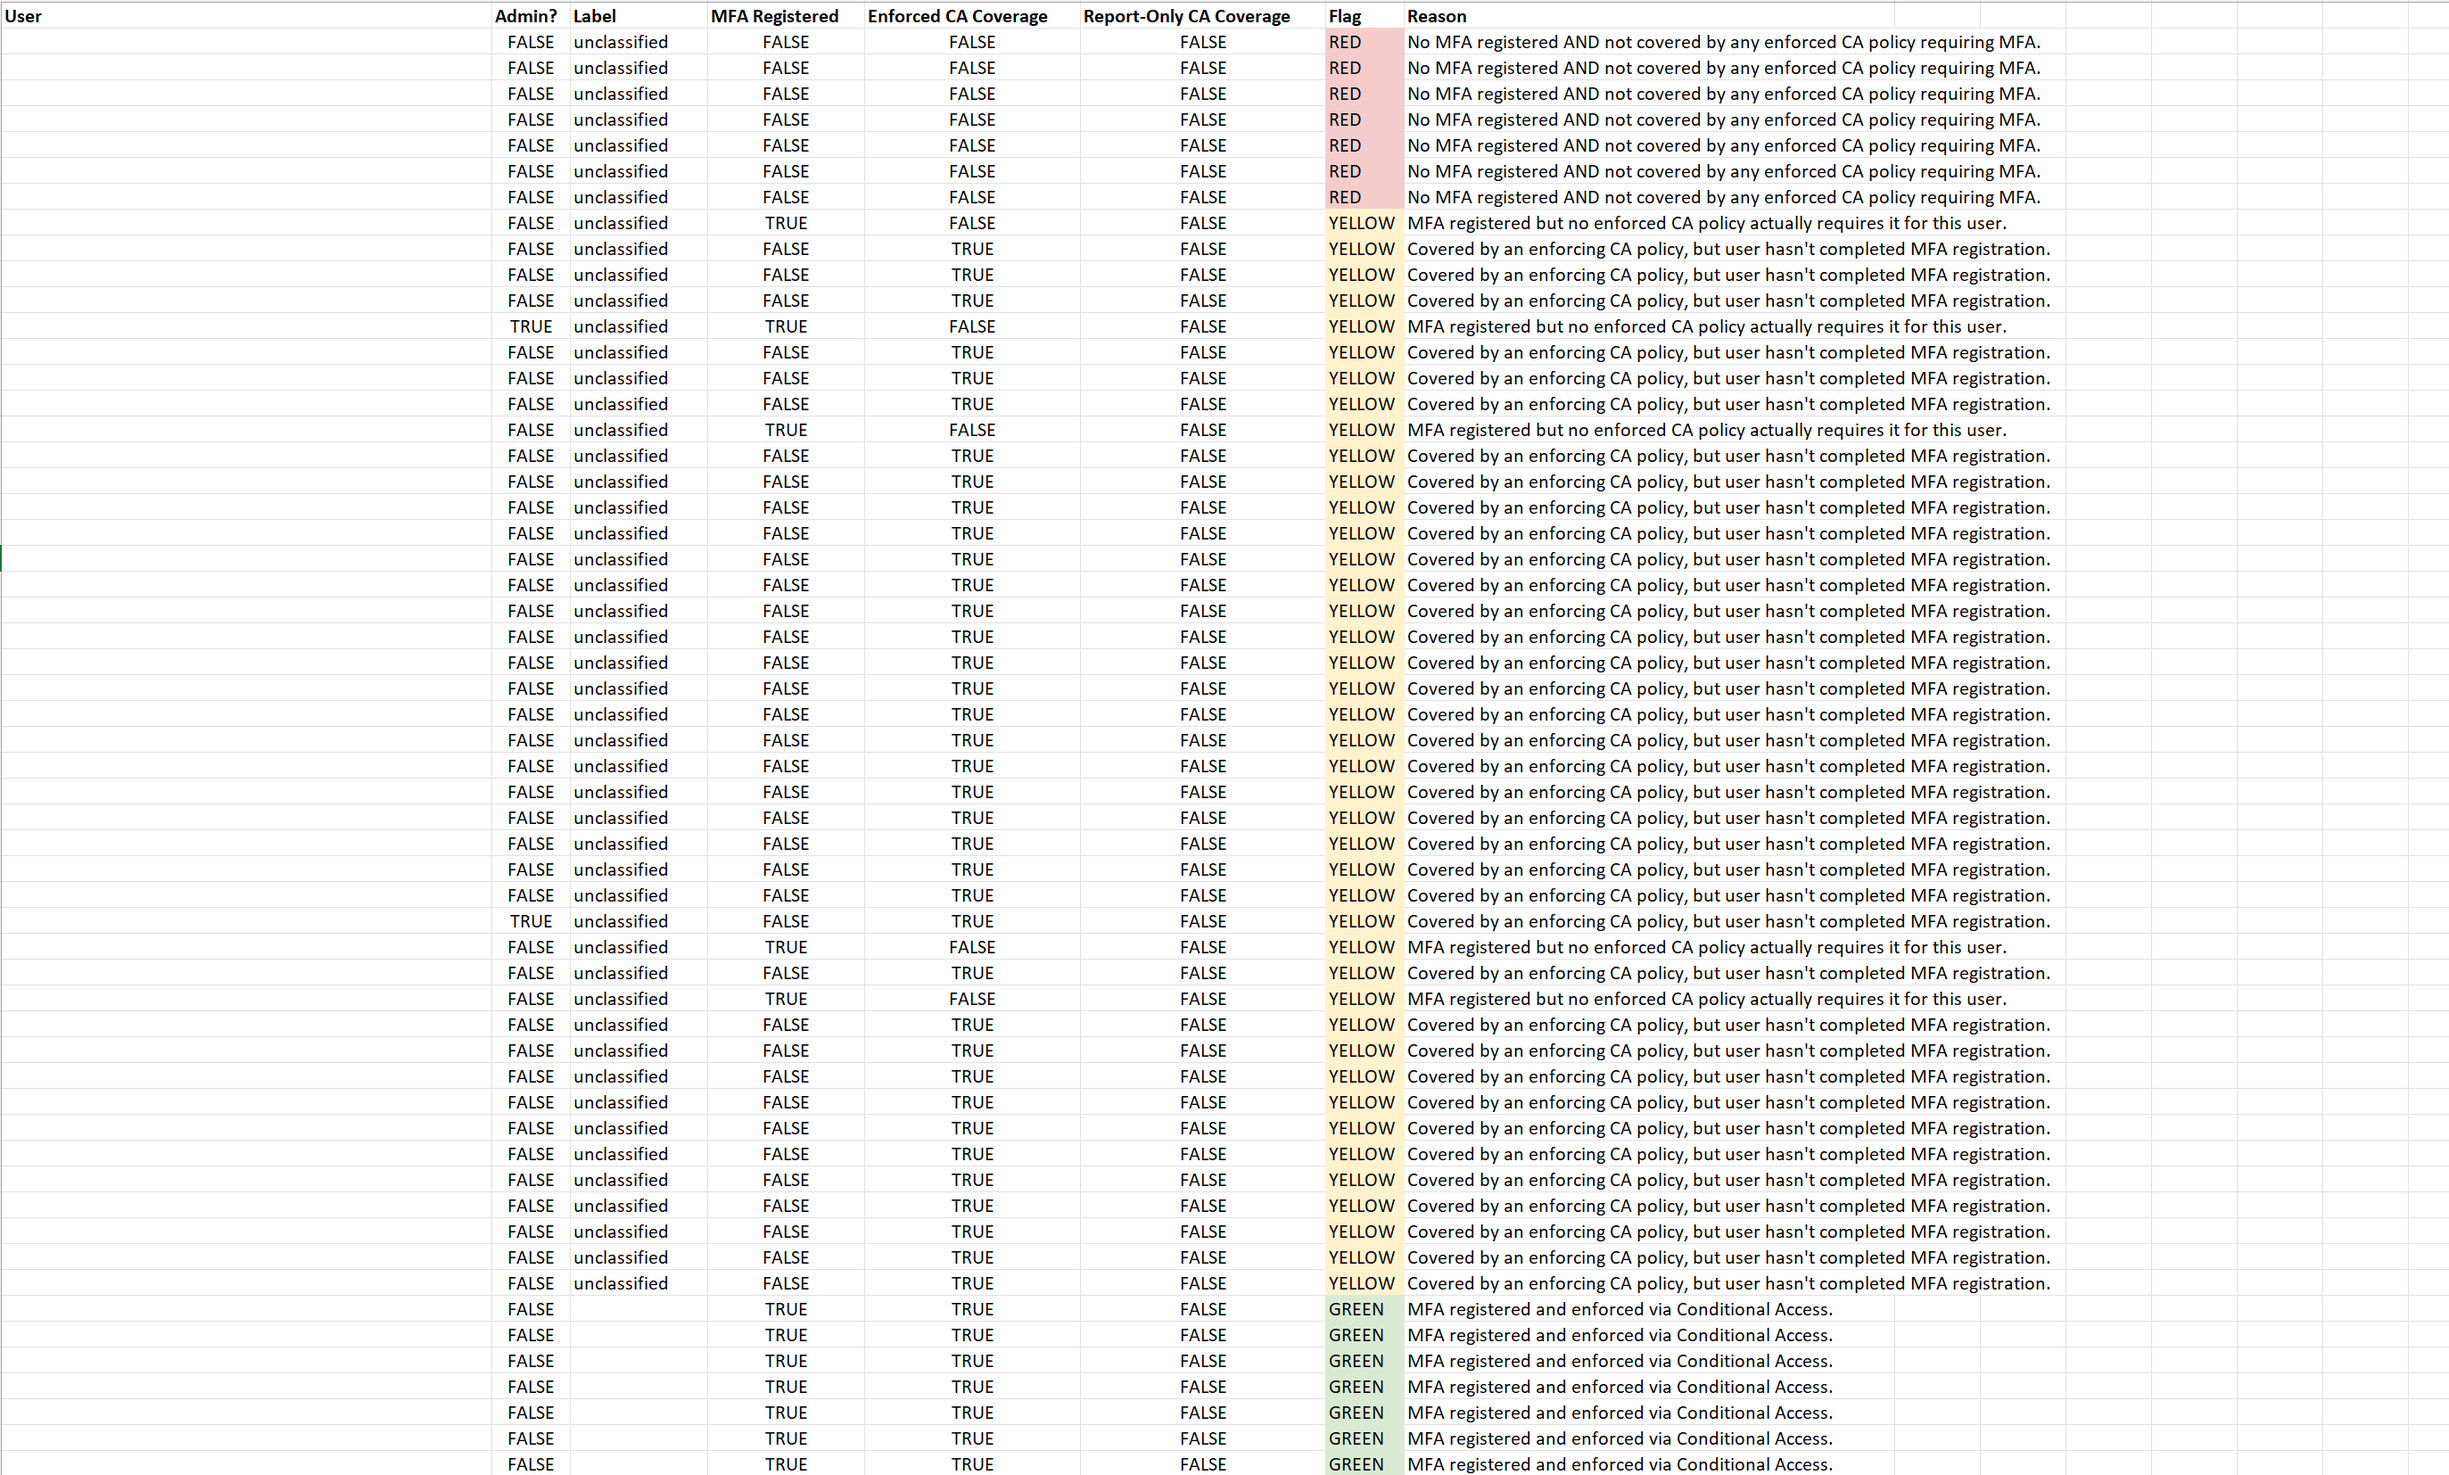
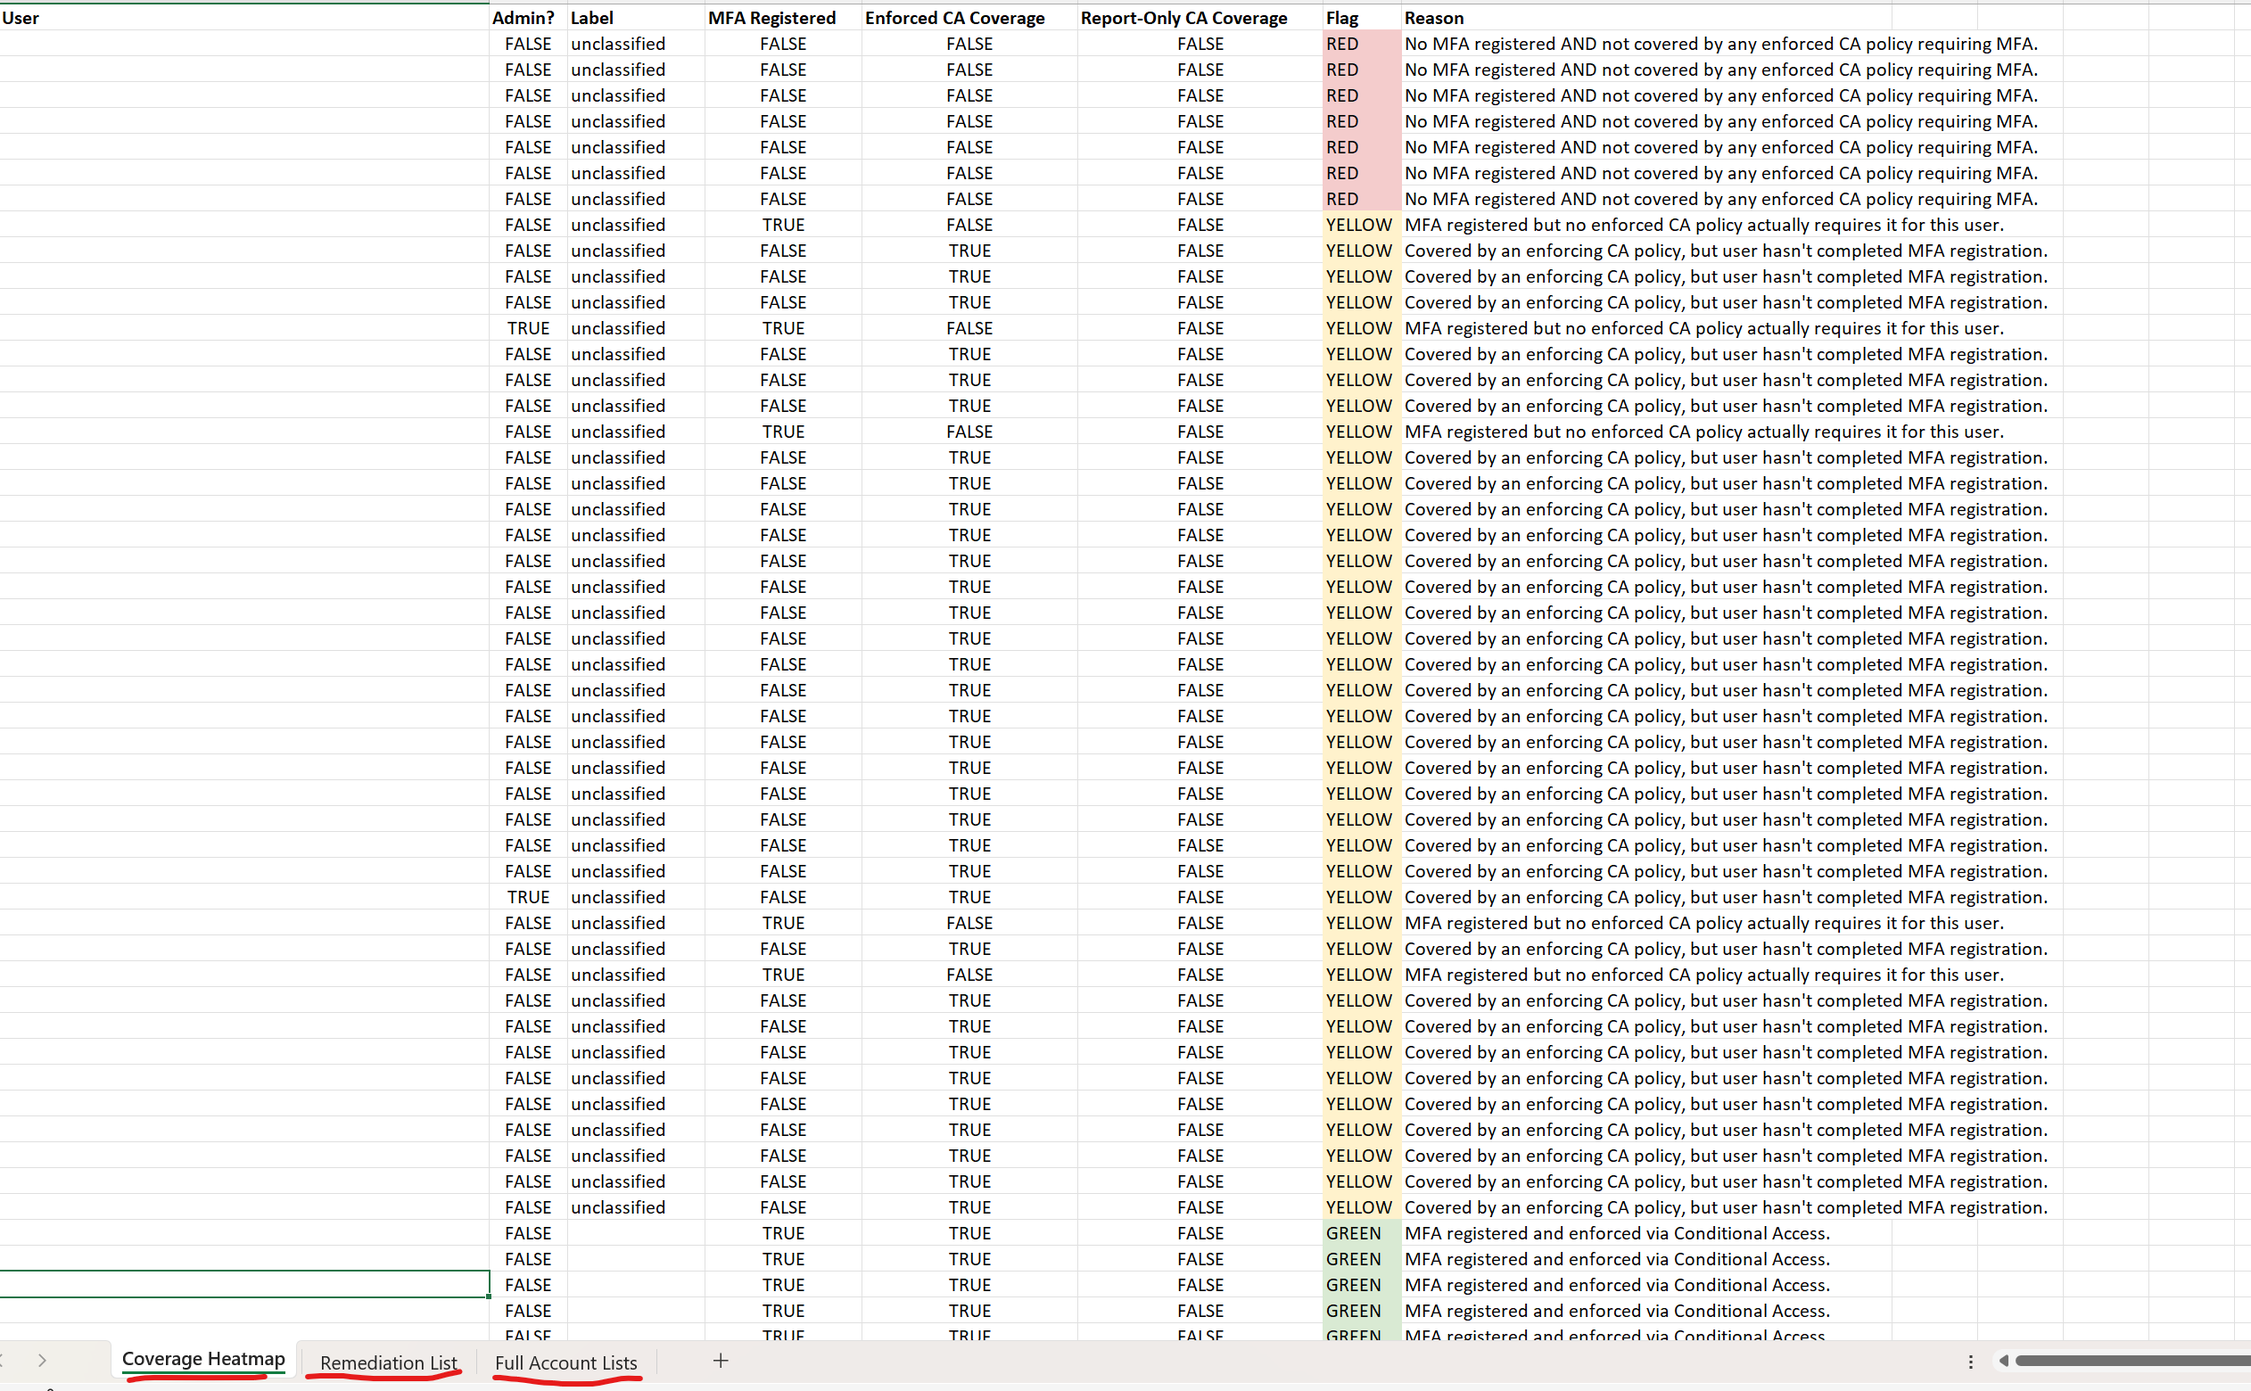
another example of tab2

Changed region(s): [[0.0618, 0.0, 0.9271, 1.0], [0.8962, 0.9538, 1.0, 0.9846], [0.0, 0.0, 0.0309, 0.0308]]

diff --git a/README.md b/README.md
@@ -61,6 +61,8 @@ Red/Yellow/Green heatmap plus a prioritized remediation list.
 The generated `.xlsx` has three tabs:
 
 ![Sample report output](updated.png)
+![Sample report output](updated2.png)
+
 
 - **Coverage Heatmap** — one row per user, color-coded RED/YELLOW/GREEN/INFO,
   sorted worst-to-best
